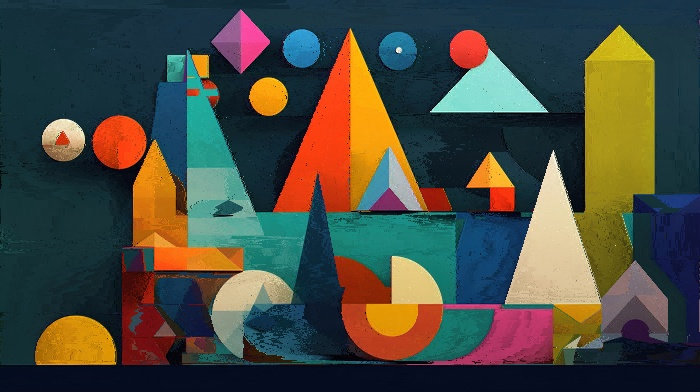
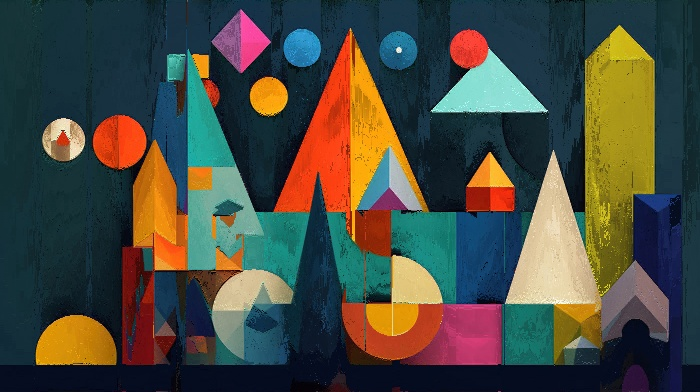
region fixed maybe?

diff --git a/sort.py b/sort.py
@@ -121,64 +121,97 @@ def _sort_gradient(img, v, h, s, edges, sort_channel):
                     s[start:end, x] = s[start:end, x][sorted_order]
     return v, h, s
 
-def _sort_regions(v, h, s, edges, sort_channel):
-    """Sort pixels within edge-bounded regions while preserving local structure."""
-    # Preprocess edges to ensure closed regions
+def _sort_regions(v, h, s, edges, sort_channel, 
+                 sort_direction='vertical', 
+                 min_region_area=100):
+    """
+    Sort pixels within edge-bounded regions with configurable direction and size limits.
+    
+    Parameters:
+        sort_direction ('horizontal'|'vertical'): Sorting orientation within regions
+        min_region_area (int): Minimum pixel area for regions to be processed
+    """
+    # Enhance edge connectivity for better region detection
     kernel = cv2.getStructuringElement(cv2.MORPH_ELLIPSE, (3,3))
     dilated_edges = cv2.dilate(edges, kernel, iterations=1)
     
-    # Find regions using 8-connected components on inverted edges
+    # Find regions using 8-connected components
     _, labels = cv2.connectedComponents(255 - dilated_edges, connectivity=8)
     
-    # Process each region
     for label in np.unique(labels):
-        if label == 0:  # Background
+        if label == 0:  # Skip background
             continue
             
-        # Create region mask and get bounding box
+        # Create region mask and find contours
         mask = (labels == label).astype(np.uint8)
         contours, _ = cv2.findContours(mask, cv2.RETR_EXTERNAL, cv2.CHAIN_APPROX_SIMPLE)
         
-        # Skip small regions
-        if cv2.contourArea(contours[0]) < 100:
+        # Skip regions smaller than minimum area
+        if cv2.contourArea(contours[0]) < min_region_area:
             continue
 
-        # Get region boundaries
-        x,y,w,h_region = cv2.boundingRect(contours[0])
+        # Get region bounding box
+        x, y, w, h_region = cv2.boundingRect(contours[0])
         
-        # Process each row in the region
-        for row in range(y, y+h_region):
-            # Get row slice within region bounds
-            row_mask = mask[row, x:x+w]
-            if np.sum(row_mask) == 0:
-                continue
-                
-            # Find start/end of region segment in this row
-            cols = np.where(row_mask > 0)[0]
-            if len(cols) == 0:
-                continue
-                
-            start_col = cols[0] + x
-            end_col = cols[-1] + x + 1
-            
-            # Split into sub-segments using original edges
-            edge_positions = np.where(edges[row, start_col:end_col] > 0)[0] + start_col
-            segments = np.split(np.arange(start_col, end_col), edge_positions - start_col)
-            
-            # Sort each sub-segment
-            for seg in segments:
-                if len(seg) < 2:
+        if sort_direction == 'horizontal':
+            # Horizontal sorting: process row-wise
+            for row in range(y, y + h_region):
+                # Get horizontal segment within region bounds
+                row_mask = mask[row, x:x+w]
+                if np.sum(row_mask) == 0:
                     continue
-                    
-                # Get absolute column indices
-                start = seg[0]
-                end = seg[-1] + 1
                 
-                # Sort within the segment
-                sorted_order = np.argsort(sort_channel[row, start:end])
-                v[row, start:end] = v[row, start:end][sorted_order]
-                h[row, start:end] = h[row, start:end][sorted_order]
-                s[row, start:end] = s[row, start:end][sorted_order]
+                cols = np.where(row_mask > 0)[0] + x
+                if len(cols) == 0:
+                    continue
+                
+                start_col = cols[0]
+                end_col = cols[-1] + 1
+                
+                # Split using original edges
+                edge_positions = np.where(edges[row, start_col:end_col] > 0)[0] + start_col
+                segments = np.split(np.arange(start_col, end_col), edge_positions - start_col)
+                
+                # Sort each horizontal segment
+                for seg in segments:
+                    if len(seg) < 2:
+                        continue
+                    start = seg[0]
+                    end = seg[-1] + 1
+                    sorted_order = np.argsort(sort_channel[row, start:end])
+                    v[row, start:end] = v[row, start:end][sorted_order]
+                    h[row, start:end] = h[row, start:end][sorted_order]
+                    s[row, start:end] = s[row, start:end][sorted_order]
+                    
+        elif sort_direction == 'vertical':
+            # Vertical sorting: process column-wise
+            for col in range(x, x + w):
+                # Get vertical segment within region bounds
+                col_mask = mask[y:y+h_region, col]
+                if np.sum(col_mask) == 0:
+                    continue
+                
+                rows = np.where(col_mask > 0)[0] + y
+                if len(rows) == 0:
+                    continue
+                
+                start_row = rows[0]
+                end_row = rows[-1] + 1
+                
+                # Split using original edges
+                edge_positions = np.where(edges[start_row:end_row, col] > 0)[0] + start_row
+                segments = np.split(np.arange(start_row, end_row), edge_positions - start_row)
+                
+                # Sort each vertical segment
+                for seg in segments:
+                    if len(seg) < 2:
+                        continue
+                    start = seg[0]
+                    end = seg[-1] + 1
+                    sorted_order = np.argsort(sort_channel[start:end, col])
+                    v[start:end, col] = v[start:end, col][sorted_order]
+                    h[start:end, col] = h[start:end, col][sorted_order]
+                    s[start:end, col] = s[start:end, col][sorted_order]
 
     return v, h, s
 
